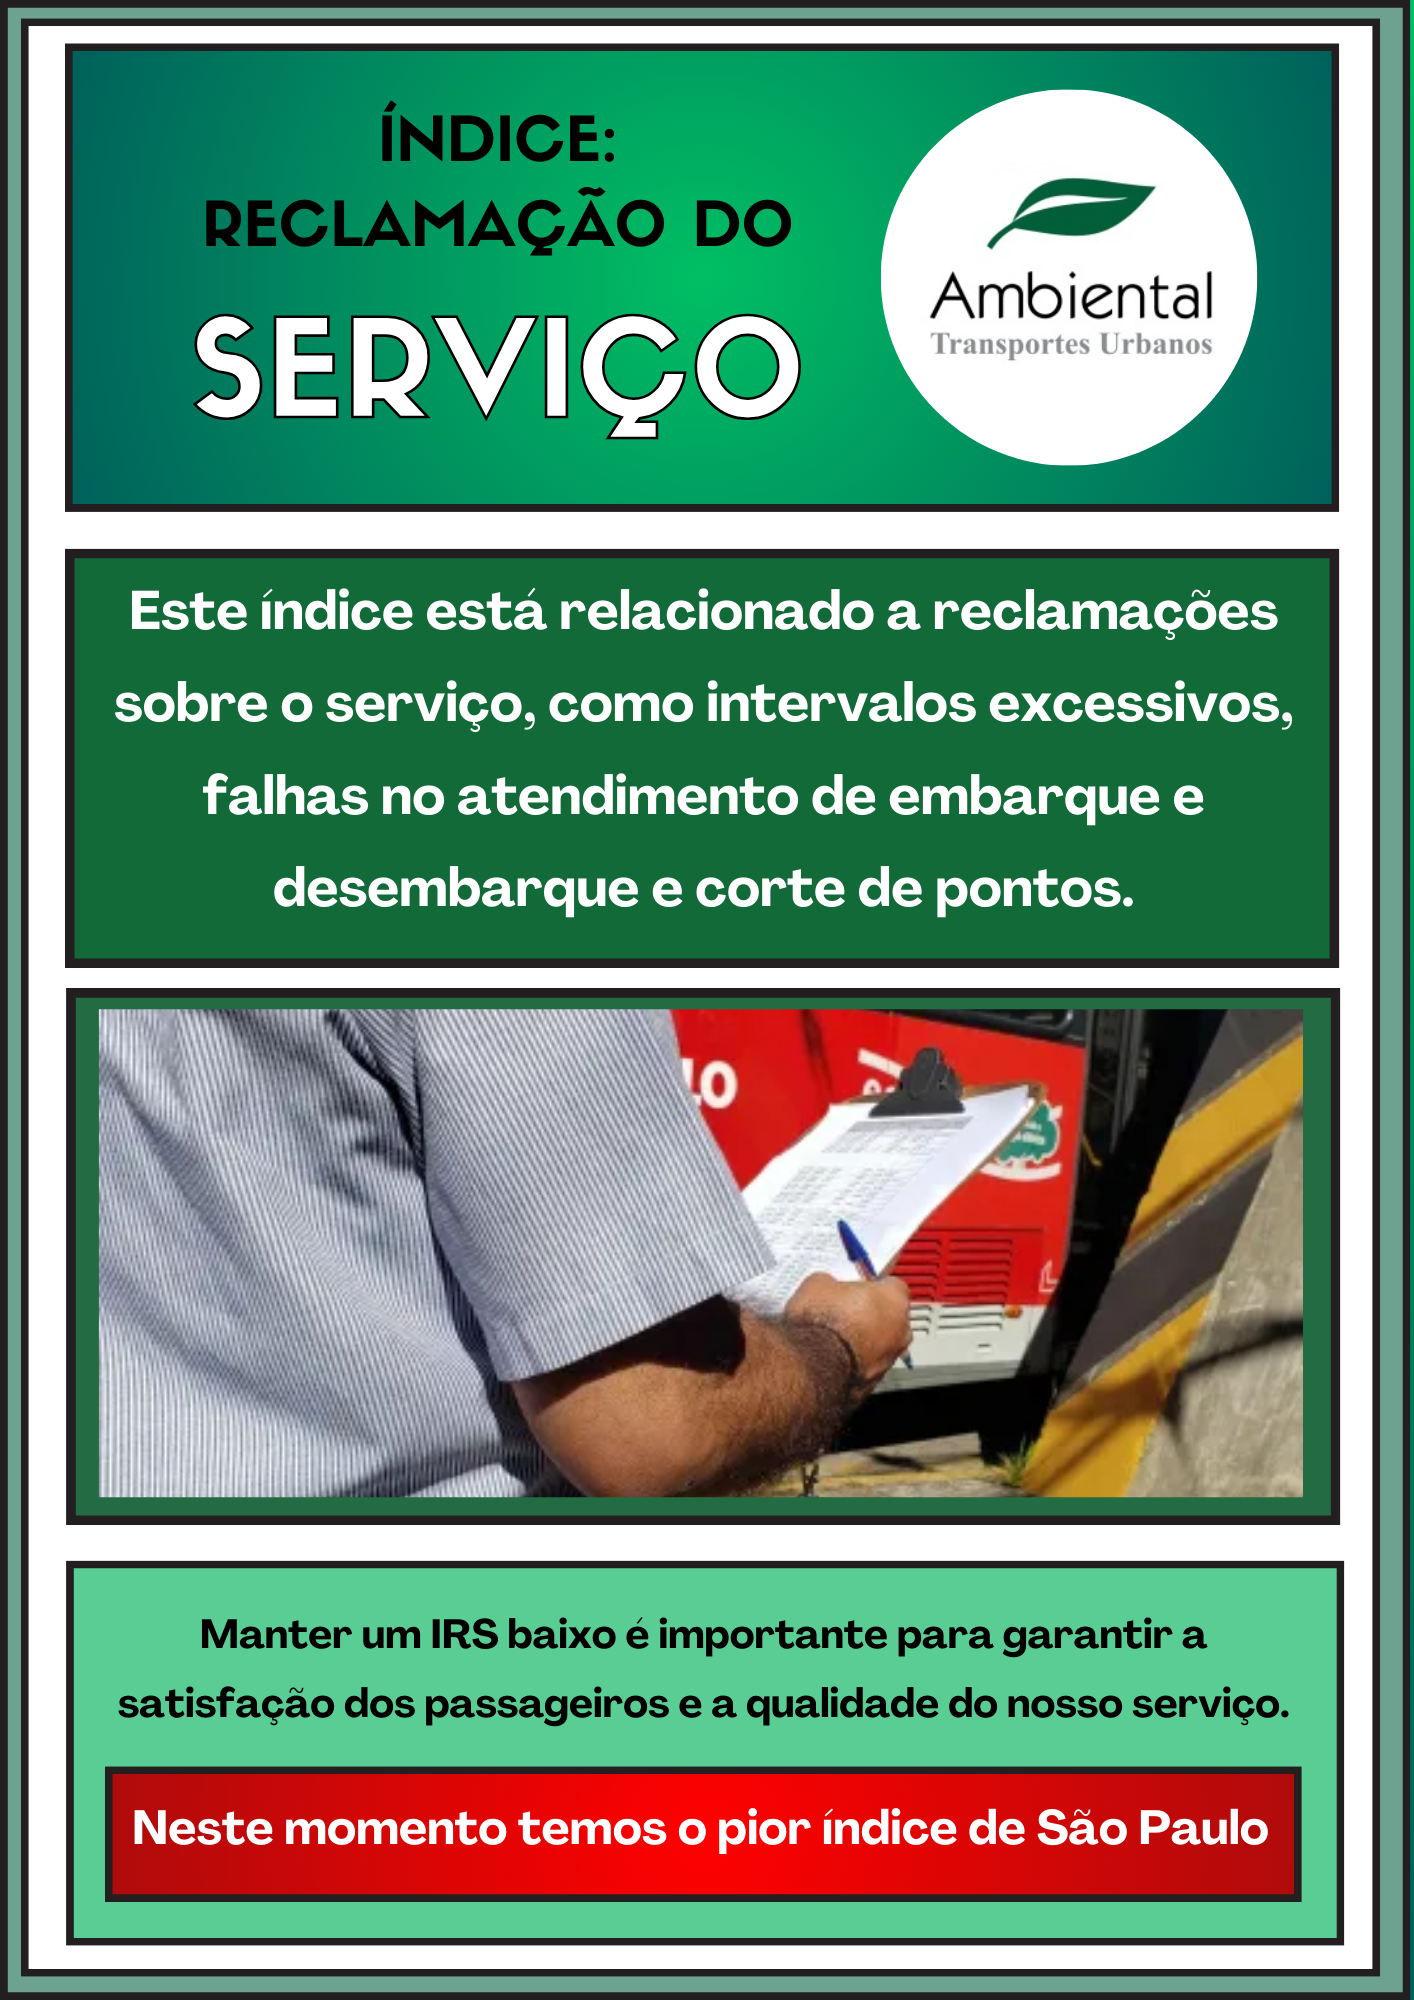
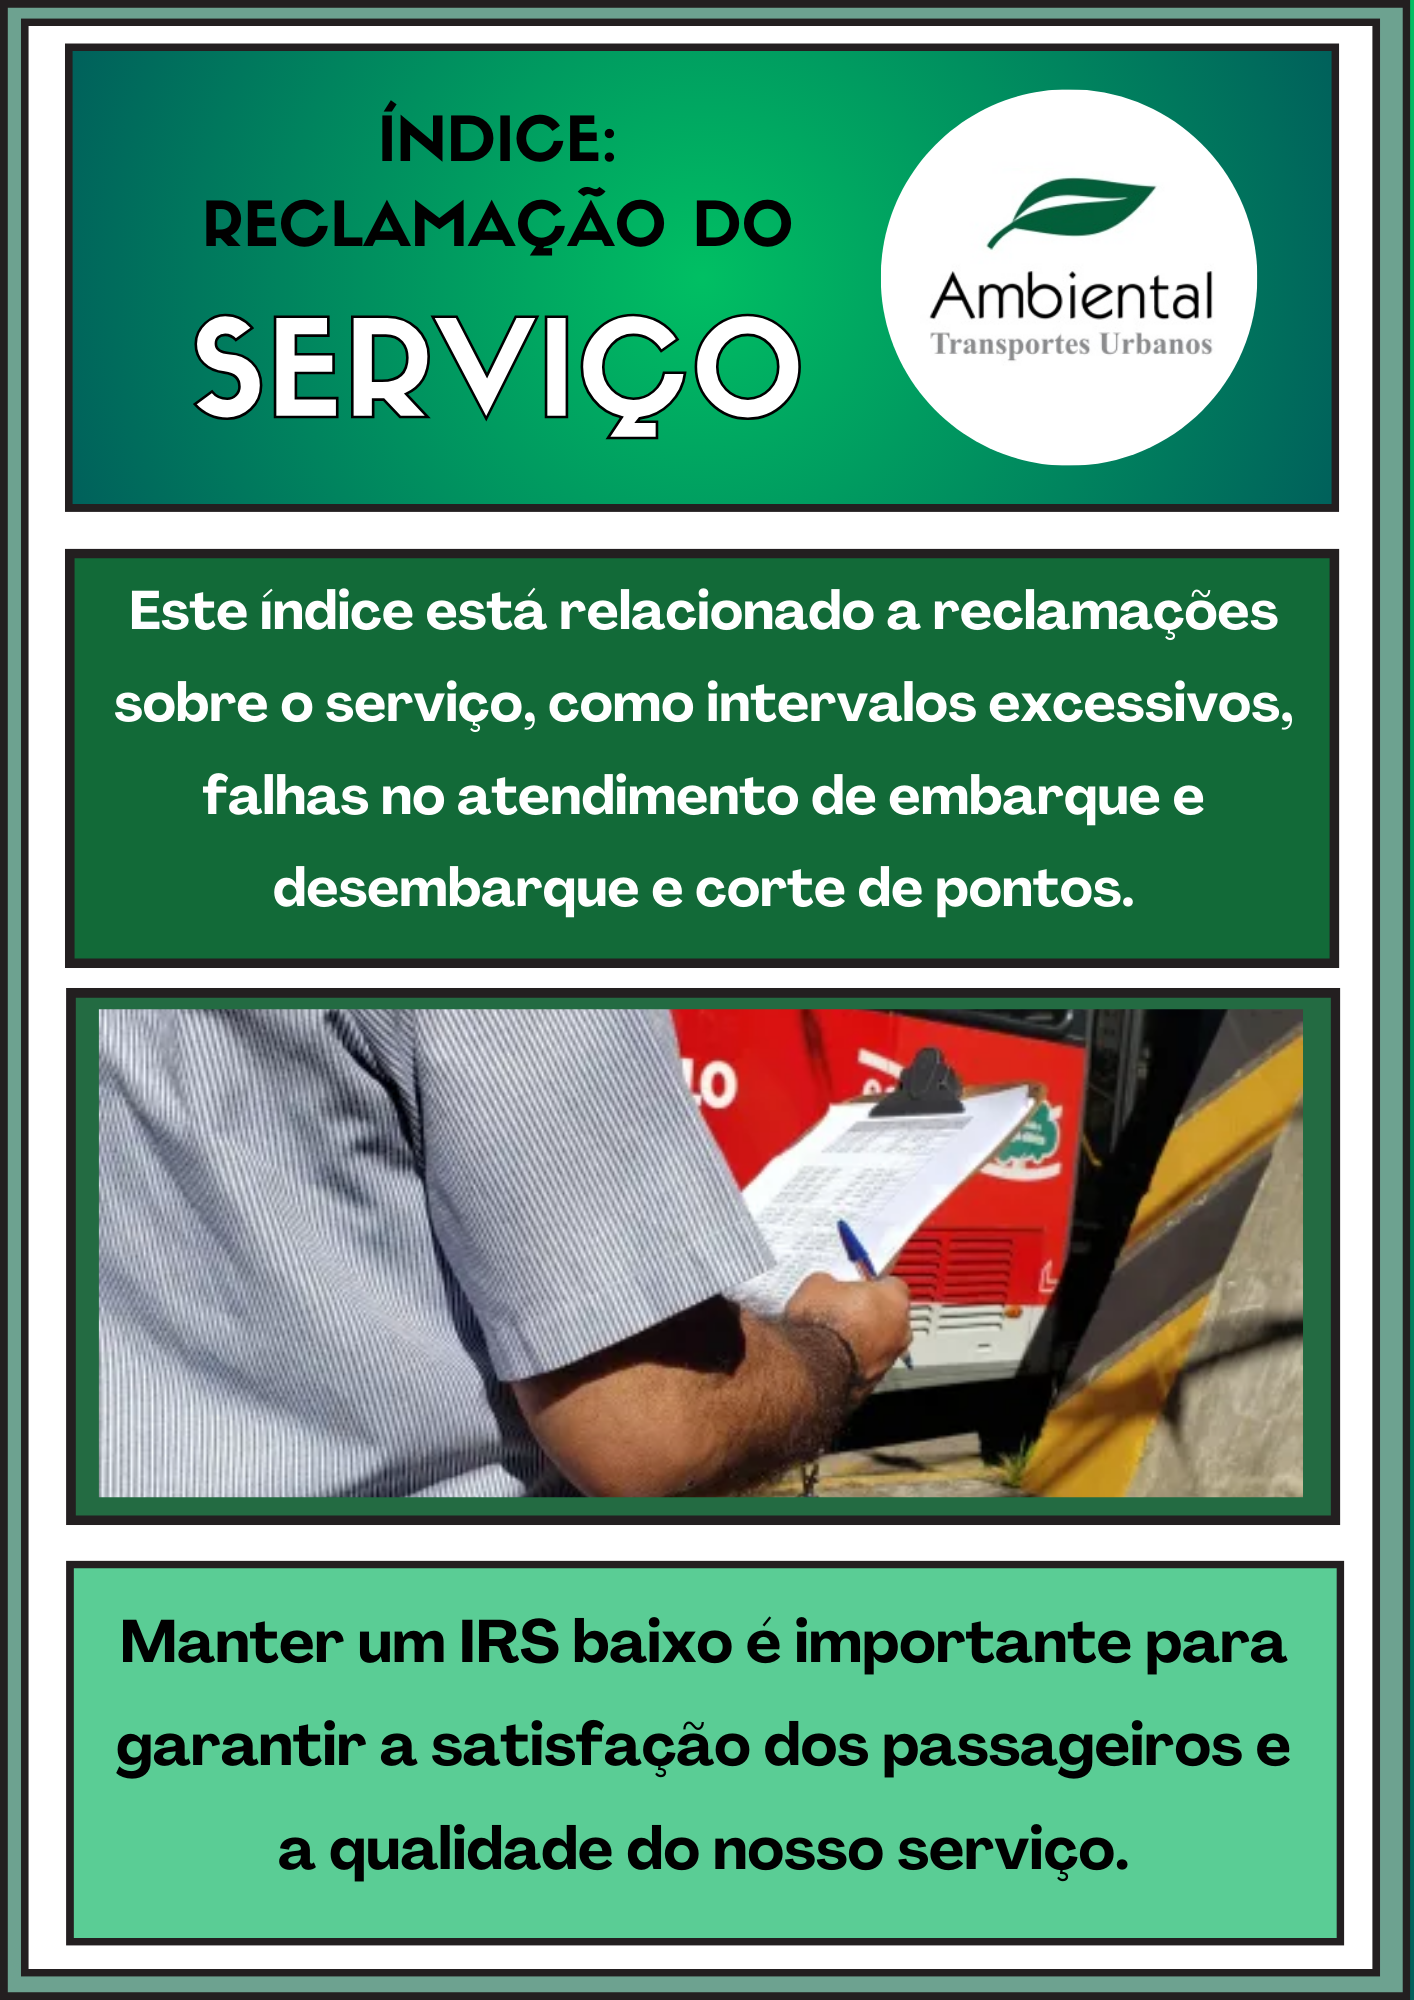
Remove the red border on page 15 and 16

Changed region(s): [[0.0622, 0.806, 0.9335, 0.961]]

diff --git a/README.md b/README.md
@@ -38,6 +38,6 @@ Open ``index.html`` in your browser to view the webpage.
 
 ### Project Features
 
-``Scrolling Column Layout``: Images are displayed in a vertical column layout similar to Instagram.
-``Image Containers:`` Each image is enclosed in a container with spacing and shadow effects.
-``Responsive Design:`` The design is responsive and adapts to different screen sizes.
+- ``Scrolling Column Layout``: Images are displayed in a vertical column layout similar to Instagram.
+- ``Image Containers:`` Each image is enclosed in a container with spacing and shadow effects.
+- ``Responsive Design:`` The design is responsive and adapts to different screen sizes.
